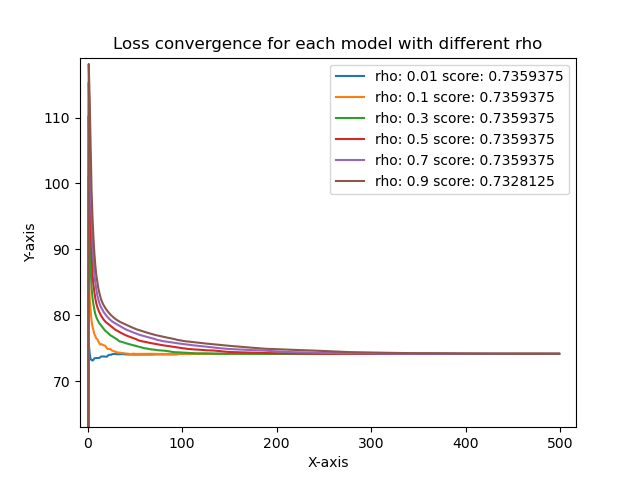
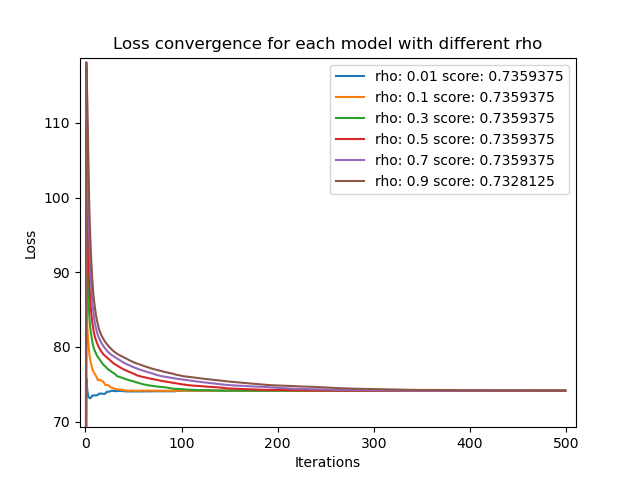
Implemented early stopping plus plots

diff --git a/model_selection.py b/model_selection.py
@@ -94,15 +94,14 @@ print("best_score: ", best_score_d)
 for (rho_1, loss), (rho_2, score) in zip(loss_convergence.items(), scores.items()):
     plt.plot(loss, label=f'rho: {rho_1} score: {score}')
 
-plt.xlabel('X-axis')
-plt.ylabel('Y-axis')
+plt.xlabel('Iterations')
+plt.ylabel('Loss')
 plt.title('Loss convergence for each model with different rho')
 plt.legend()
 plt.show()
 
 # Perform grid search with early_stopping Distributed version
-rho_values = [0.01, 0.1, 0.3, 0.5, 0.7, 0.9]
-best_rho, best_score_d, loss_convergence, scores, iter= distributed_grid_search(rho_values, best_lambda, x_train_g, y_train_g, x_val, y_val, early_stopping=True)
+best_rho, best_score_d, loss_convergence, scores, iter = distributed_grid_search(rho_values, best_lambda, x_train_g, y_train_g, x_val, y_val, early_stopping=True)
 
 print("best_rho: " ,best_rho)
 print("best_score: ", best_score_d)
@@ -111,21 +110,28 @@ print("best_score: ", best_score_d)
 for (rho_1, loss), (rho_2, score) in zip(loss_convergence.items(), scores.items()):
     plt.plot(loss, label=f'rho: {rho_1} score: {score}')
 
-plt.xlabel('X-axis')
-plt.ylabel('Y-axis')
-plt.title('Loss convergence for each model with different rho')
+plt.xlabel('Iterations')
+plt.ylabel('Loss')
+plt.title('Loss convergence with different rho using stopping criteria')
 plt.legend()
 plt.show()
 
 # iteration for convergence based on stopping criteria
-plt.bar(list(iter.keys()), list(iter.values()))
+for (rho_1, it), (rho_2, score) in zip(iter.items(), scores.items()):
+    plt.bar(rho_1, it, label=f'rho: {rho_2} score: {score}')
+
+for i, v in enumerate(iter.values()):
+    plt.text(i, v + 0.1, f"{v:.2f}", ha='center', va='bottom')
+
+# Add legend using zip to combine labels and values
+plt.legend()
 plt.xlabel('rho')
 plt.ylabel('iter convergence')
-plt.title('Bar Plot of Dictionary')
+plt.title('Models iteration to convergence')
 plt.show()
 
 # Best Distributed SVM model
-svm_dist = DistributedSVM(rho=best_rho,lambda_val=best_lambda, verbose=False)
+svm_dist = DistributedSVM(rho=best_rho,lambda_val=best_lambda, verbose=False, early_stopping= True)
 svm_dist.fit(x_train, y_train)
 svm_dist.predict(x_test, y_test)
 svm_dist.test_metrics()

diff --git a/DistributedSVM.py b/DistributedSVM.py
@@ -9,7 +9,7 @@ import matplotlib.pyplot as plt
 
 class DistributedSVM():
 
-    def __init__(self,N=20, n_iter=500, rho= 1, lambda_val = 1e-2, early_stopping = False, abs_toll= 0.00001, rel_toll = 0.001, verbose = True):
+    def __init__(self,N=20, n_iter=500, rho= 1, lambda_val = 1e-2, early_stopping = False, abs_toll= 0.00001, rel_toll = 0.0001, verbose = True):
 
         # param
         self.N = N
